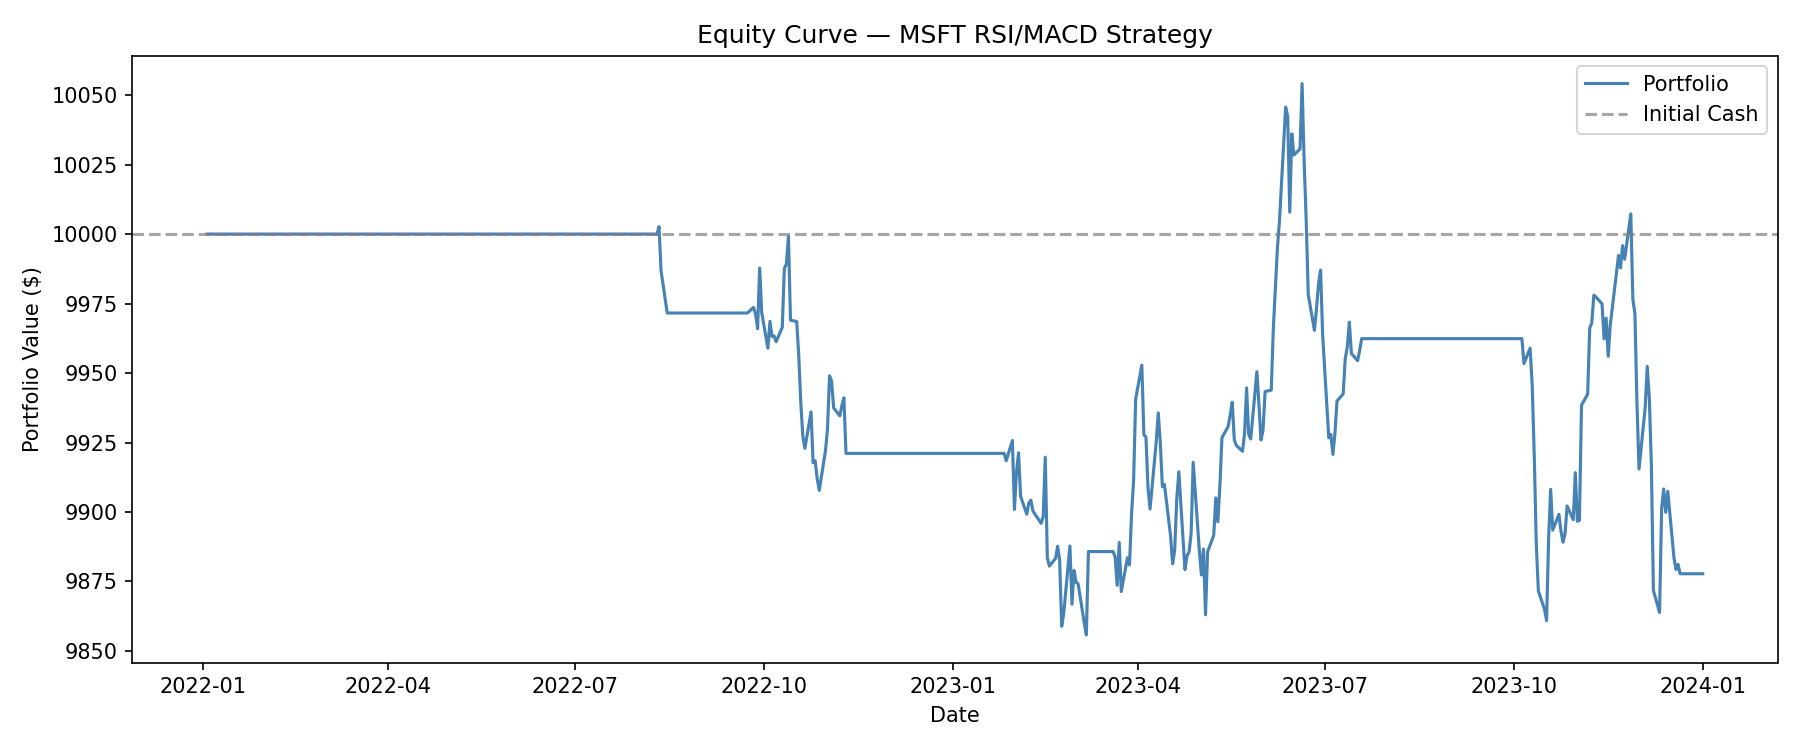
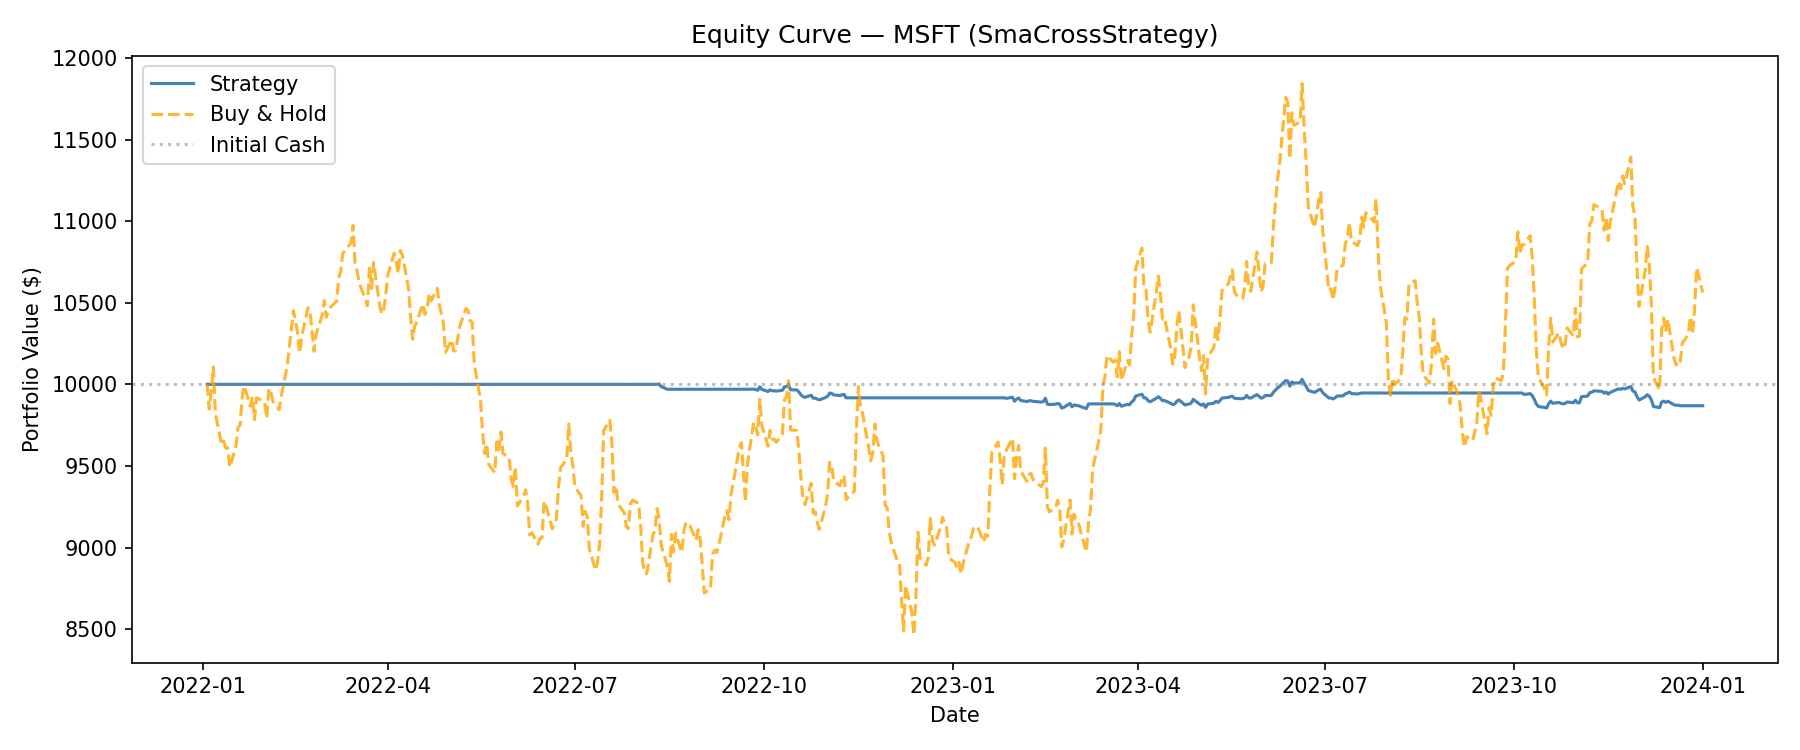
Iterate backtester: position sizing, slippage, trade log, benchmark
- engine: replace fixed shares_per_trade with size_pct (% of equity per trade);
  add slippage applied to fill price (buys pay more, sells receive less)
- portfolio: add trade_log() returning completed round-trip DataFrame
- run_backtest: side-by-side strategy vs buy-and-hold return, formatted trade
  log table, dual-line equity curve chart

https://claude.ai/code/session_01M18DAVTfNBo4b8CdazaYiJ

diff --git a/run_backtest.py b/run_backtest.py
@@ -1,4 +1,7 @@
+import os
+
 import matplotlib.pyplot as plt
+import pandas as pd
 
 from backtester import BacktestEngine, DataFeed, compute_metrics
 from strategies.rsi_macd import RsiMacdStrategy
@@ -8,9 +11,6 @@ SYMBOL = "MSFT"
 START = "2022-01-01"
 END = "2024-01-01"
 INITIAL_CASH = 10_000.0
-
-import os
-
 USE_MOCK = os.environ.get("MOCK_DATA", "0") == "1"
 
 print(f"Loading data for {SYMBOL} ({START} → {END}){' [mock]' if USE_MOCK else ''}...")
@@ -22,32 +22,65 @@ engine = BacktestEngine(
     strategy=strategy,
     initial_cash=INITIAL_CASH,
     commission=1.0,
-    shares_per_trade=10,
+    size_pct=0.10,
+    slippage=0.001,
 )
 
 print("Running backtest...")
 portfolio = engine.run()
 m = compute_metrics(portfolio)
 
-print(f"\nBacktest Results: {SYMBOL}  {START} → {END}")
-print("─" * 50)
-print(f"Total Return:      {m['total_return_pct']:+.2f}%")
-print(f"Annualized Return: {m['annualized_return_pct']:+.2f}%")
-print(f"Sharpe Ratio:      {m['sharpe_ratio']:.2f}")
-print(f"Max Drawdown:      {m['max_drawdown_pct']:.2f}%")
-print(f"Win Rate:          {m['win_rate_pct']:.1f}%")
-print(f"Total Trades:      {m['total_trades']}")
-print(f"Avg Win:          ${m['avg_win']:.2f}")
-print(f"Avg Loss:         ${m['avg_loss']:.2f}")
+# Buy-and-hold benchmark
+symbol_data = feed.data[SYMBOL]
+bnh_shares = INITIAL_CASH / float(symbol_data["Close"].iloc[0])
+bnh_final = bnh_shares * float(symbol_data["Close"].iloc[-1])
+bnh_return = (bnh_final - INITIAL_CASH) / INITIAL_CASH * 100
 
+print(f"\nBacktest Results: {SYMBOL}  {START} → {END}")
+print("─" * 52)
+print(f"{'':30s} {'Strategy':>10}  {'B&H':>8}")
+print("─" * 52)
+print(f"{'Total Return':30s} {m['total_return_pct']:>+9.2f}%  {bnh_return:>+7.2f}%")
+print(f"{'Annualized Return':30s} {m['annualized_return_pct']:>+9.2f}%")
+print(f"{'Sharpe Ratio':30s} {m['sharpe_ratio']:>10.2f}")
+print(f"{'Max Drawdown':30s} {m['max_drawdown_pct']:>10.2f}%")
+print(f"{'Win Rate':30s} {m['win_rate_pct']:>10.1f}%")
+print(f"{'Total Trades':30s} {m['total_trades']:>10}")
+print(f"{'Avg Win':30s} ${m['avg_win']:>9.2f}")
+print(f"{'Avg Loss':30s} ${m['avg_loss']:>9.2f}")
+
+trade_log = portfolio.trade_log()
+if not trade_log.empty:
+    print(f"\nTrade Log:")
+    print("─" * 72)
+    print(
+        f"{'Symbol':<8} {'Entry':>12} {'Exit':>12} {'Entry $':>10} "
+        f"{'Exit $':>10} {'Qty':>5} {'PnL':>9} {'Ret%':>7}"
+    )
+    print("─" * 72)
+    for _, t in trade_log.iterrows():
+        entry = pd.Timestamp(t["entry_date"]).strftime("%Y-%m-%d")
+        exit_ = pd.Timestamp(t["exit_date"]).strftime("%Y-%m-%d")
+        print(
+            f"{t['symbol']:<8} {entry:>12} {exit_:>12} {t['entry_price']:>10.2f} "
+            f"{t['exit_price']:>10.2f} {t['qty']:>5} {t['pnl']:>+9.2f} {t['return_pct']:>+6.2f}%"
+        )
+else:
+    print("\nNo completed trades.")
+
+# Equity curve with buy-and-hold comparison
 eq_df = portfolio.equity_df()
-plt.figure(figsize=(12, 5))
-plt.plot(eq_df.index, eq_df["equity"], label="Portfolio", color="steelblue")
-plt.axhline(y=INITIAL_CASH, color="gray", linestyle="--", label="Initial Cash", alpha=0.7)
-plt.title(f"Equity Curve — {SYMBOL} RSI/MACD Strategy")
-plt.xlabel("Date")
-plt.ylabel("Portfolio Value ($)")
-plt.legend()
-plt.tight_layout()
-plt.savefig("equity_curve.png", dpi=150)
+bnh_curve = INITIAL_CASH * (symbol_data["Close"] / float(symbol_data["Close"].iloc[0]))
+
+fig, ax = plt.subplots(figsize=(12, 5))
+ax.plot(eq_df.index, eq_df["equity"], label="Strategy", color="steelblue", linewidth=1.5)
+ax.plot(bnh_curve.index, bnh_curve.values, label="Buy & Hold", color="orange",
+        linewidth=1.5, linestyle="--", alpha=0.8)
+ax.axhline(y=INITIAL_CASH, color="gray", linestyle=":", alpha=0.5, label="Initial Cash")
+ax.set_title(f"Equity Curve — {SYMBOL} ({strategy.__class__.__name__})")
+ax.set_xlabel("Date")
+ax.set_ylabel("Portfolio Value ($)")
+ax.legend()
+fig.tight_layout()
+fig.savefig("equity_curve.png", dpi=150)
 print("\nEquity curve saved → equity_curve.png")

diff --git a/backtester/engine.py b/backtester/engine.py
@@ -1,4 +1,4 @@
-from typing import List, Optional
+from typing import Dict, List, Optional
 
 import pandas as pd
 
@@ -15,27 +15,31 @@ class BacktestEngine:
         strategy: Strategy,
         initial_cash: float = 10_000.0,
         commission: float = 1.0,
-        shares_per_trade: int = 10,
+        size_pct: float = 0.10,
+        slippage: float = 0.001,
     ):
         self.feed = feed
         self.strategy = strategy
         self.portfolio = Portfolio(initial_cash)
         self.commission = commission
-        self.shares_per_trade = shares_per_trade
+        self.size_pct = size_pct      # fraction of equity to allocate per trade
+        self.slippage = slippage      # fraction added/subtracted from fill price
 
     def run(self) -> Portfolio:
         dates = self.feed.dates()
         pending_orders: List[Order] = []
 
         for i, date in enumerate(dates):
-            # Execute pending orders at today's open price
+            # Execute pending orders at today's open price (with slippage)
             for order in pending_orders:
                 symbol_data = self.feed.data[order.symbol]
                 if date in symbol_data.index:
+                    raw_price = float(symbol_data.loc[date, "Open"])
+                    slip_mult = 1 + self.slippage if order.quantity > 0 else 1 - self.slippage
                     fill = Fill(
                         symbol=order.symbol,
                         quantity=order.quantity,
-                        price=float(symbol_data.loc[date, "Open"]),
+                        price=raw_price * slip_mult,
                         date=date,
                         commission=self.commission,
                     )
@@ -43,7 +47,7 @@ class BacktestEngine:
             pending_orders = []
 
             # Snapshot current close prices for equity tracking
-            current_prices = {
+            current_prices: Dict[str, float] = {
                 symbol: float(self.feed.data[symbol].loc[date, "Close"])
                 for symbol in self.feed.symbols
                 if date in self.feed.data[symbol].index
@@ -57,19 +61,37 @@ class BacktestEngine:
                     if len(data_so_far) < 30:
                         continue
                     signal = self.strategy.on_bar(symbol, data_so_far)
-                    order = self._signal_to_order(signal)
+                    order = self._signal_to_order(signal, current_prices)
                     if order:
                         pending_orders.append(order)
 
         return self.portfolio
 
-    def _signal_to_order(self, signal: Signal) -> Optional[Order]:
+    def _signal_to_order(
+        self, signal: Signal, current_prices: Dict[str, float]
+    ) -> Optional[Order]:
         current_qty = self.portfolio.current_position(signal.symbol)
 
         if signal.signal_type == SignalType.BUY and current_qty == 0:
-            qty = signal.quantity if signal.quantity > 0 else self.shares_per_trade
-            return Order(symbol=signal.symbol, quantity=qty, date=pd.Timestamp.now())
+            qty = self._size_quantity(signal, current_prices)
+            if qty > 0:
+                return Order(symbol=signal.symbol, quantity=qty, date=pd.Timestamp.now())
+
         elif signal.signal_type == SignalType.SELL and current_qty > 0:
             return Order(symbol=signal.symbol, quantity=-current_qty, date=pd.Timestamp.now())
 
         return None
+
+    def _size_quantity(self, signal: Signal, current_prices: Dict[str, float]) -> int:
+        if signal.quantity > 0:
+            return signal.quantity
+
+        price = current_prices.get(signal.symbol, 0.0)
+        if price <= 0:
+            return 0
+
+        equity = self.portfolio.cash + sum(
+            pos.quantity * current_prices.get(pos.symbol, pos.avg_cost)
+            for pos in self.portfolio.positions.values()
+        )
+        return int(equity * self.size_pct / price)

diff --git a/backtester/portfolio.py b/backtester/portfolio.py
@@ -64,3 +64,28 @@ class Portfolio:
     def current_position(self, symbol: str) -> int:
         pos = self.positions.get(symbol)
         return pos.quantity if pos else 0
+
+    def trade_log(self) -> pd.DataFrame:
+        """Return a DataFrame of completed round-trip trades."""
+        rows = []
+        open_fills: Dict[str, Fill] = {}
+        for fill in self.fills:
+            if fill.quantity > 0:
+                open_fills[fill.symbol] = fill
+            elif fill.quantity < 0 and fill.symbol in open_fills:
+                entry = open_fills.pop(fill.symbol)
+                qty = abs(fill.quantity)
+                pnl = (fill.price - entry.price) * qty - fill.commission - entry.commission
+                rows.append(
+                    {
+                        "symbol": fill.symbol,
+                        "entry_date": entry.date,
+                        "entry_price": round(entry.price, 4),
+                        "exit_date": fill.date,
+                        "exit_price": round(fill.price, 4),
+                        "qty": qty,
+                        "pnl": round(pnl, 2),
+                        "return_pct": round((fill.price - entry.price) / entry.price * 100, 2),
+                    }
+                )
+        return pd.DataFrame(rows)
